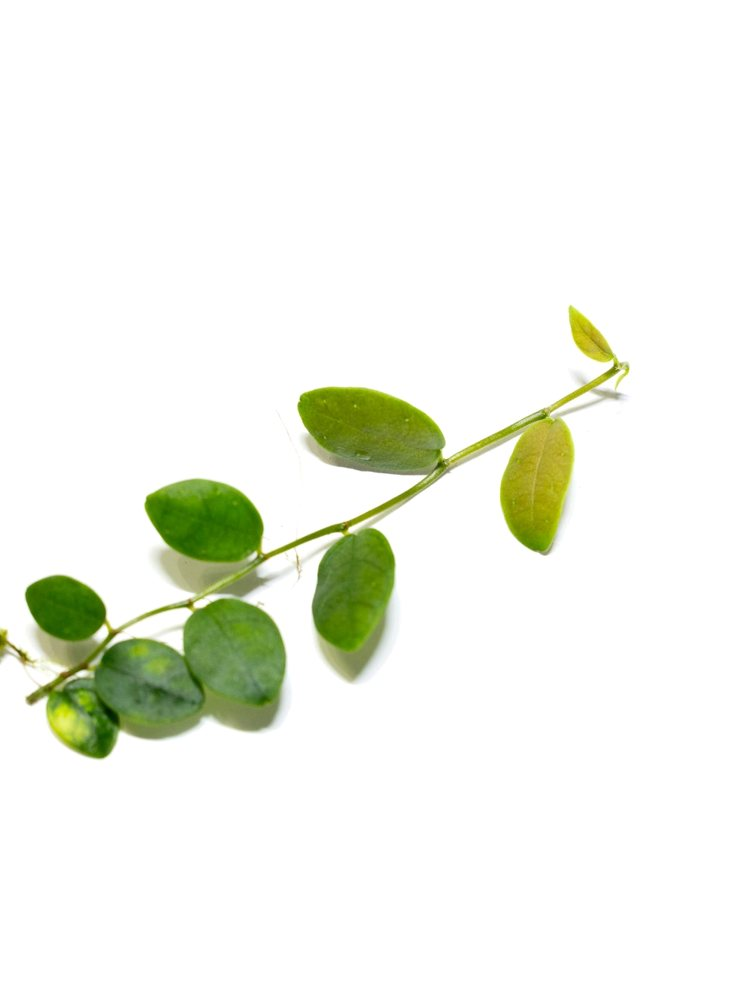
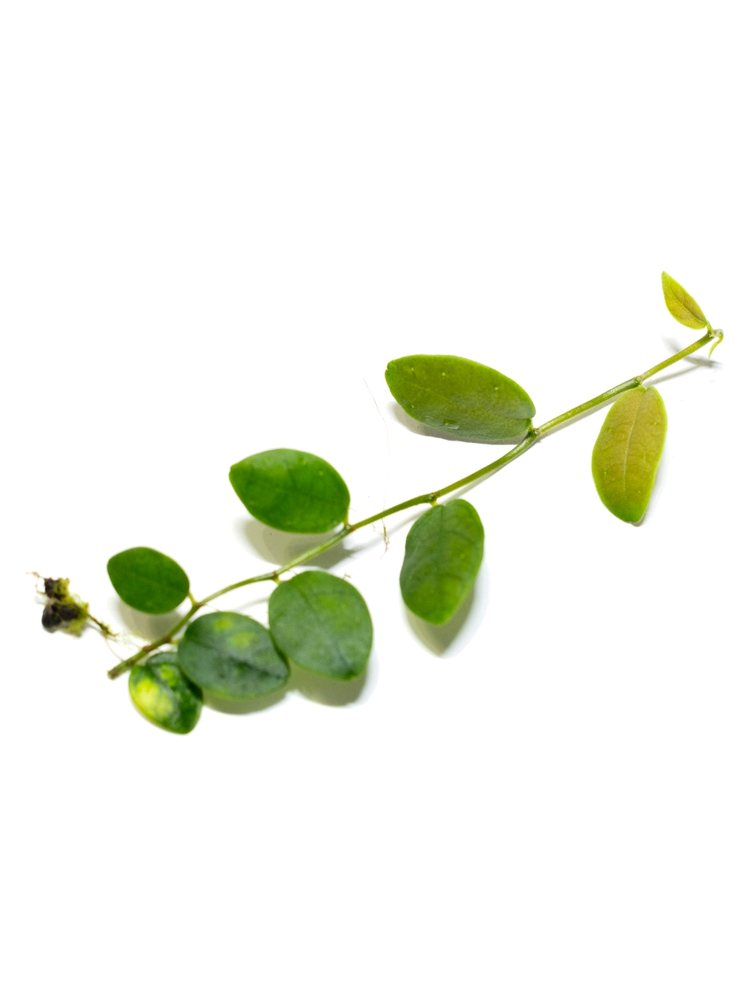
Size product photos to match Murung Raya automatically
The photo tool's default mode now scales each plant (adding or trimming
white margin) so it covers the same share of the frame as the Ficus sp.
'Murung Raya' photo (10.4%) and sits at the same spot. Ficus punctata is
re-processed this way; Murung Raya stays as the reference.

Claude-Session: https://claude.ai/code/session_01RTzuFWkWY9WEpCoxYCoC66

Changed region(s): [[0.0, 0.279, 0.9813, 0.775]]

diff --git a/plant/index.html b/plant/index.html
@@ -55,11 +55,11 @@
   <link rel="preconnect" href="https://fonts.googleapis.com">
   <link rel="preconnect" href="https://fonts.gstatic.com" crossorigin>
   <link rel="stylesheet" href="https://fonts.googleapis.com/css2?family=Figtree:ital,wght@0,300;0,700;0,800;1,300;1,700&family=Noto+Sans+KR:wght@300;700&family=Noto+Sans+JP:wght@300;700&display=swap">
-  <link rel="stylesheet" href="/assets/css/style.css?v=20261118q">
+  <link rel="stylesheet" href="/assets/css/style.css?v=20261118r">
 </head>
 <body class="page-sub">
   <!-- 상단 바 · PLANT 메뉴 (공통: assets/js/layout.js) -->
-  <script src="/assets/js/layout.js?v=20261118q"></script>
+  <script src="/assets/js/layout.js?v=20261118r"></script>
   <script>PM_LAYOUT.top()</script>
 
   <!-- ───────── PLANT 목록 ─────────
@@ -80,9 +80,9 @@
   <!-- 하단 · 검색 · 언어 창 (공통: assets/js/layout.js) -->
   <script>PM_LAYOUT.bottom()</script>
 
-  <script src="/assets/js/i18n.js?v=20261118q" defer></script>
-  <script src="/assets/js/main.js?v=20261118q" defer></script>
-  <script src="/assets/js/products.js?v=20261118q" defer></script>
-  <script src="/assets/js/plant.js?v=20261118q" defer></script>
+  <script src="/assets/js/i18n.js?v=20261118r" defer></script>
+  <script src="/assets/js/main.js?v=20261118r" defer></script>
+  <script src="/assets/js/products.js?v=20261118r" defer></script>
+  <script src="/assets/js/plant.js?v=20261118r" defer></script>
 </body>
 </html>

diff --git a/index.html b/index.html
@@ -55,11 +55,11 @@
   <link rel="preconnect" href="https://fonts.googleapis.com">
   <link rel="preconnect" href="https://fonts.gstatic.com" crossorigin>
   <link rel="stylesheet" href="https://fonts.googleapis.com/css2?family=Figtree:ital,wght@0,300;0,700;0,800;1,300;1,700&family=Noto+Sans+KR:wght@300;700&family=Noto+Sans+JP:wght@300;700&display=swap">
-  <link rel="stylesheet" href="/assets/css/style.css?v=20261118q">
+  <link rel="stylesheet" href="/assets/css/style.css?v=20261118r">
 </head>
 <body>
   <!-- 상단 바 · PLANT 메뉴 (공통: assets/js/layout.js) -->
-  <script src="/assets/js/layout.js?v=20261118q"></script>
+  <script src="/assets/js/layout.js?v=20261118r"></script>
   <script>PM_LAYOUT.top()</script>
 
   <!-- ───────── 홈 ───────── -->
@@ -101,8 +101,8 @@
   <script>PM_LAYOUT.bottom()</script>
 
 
-  <script src="/assets/js/i18n.js?v=20261118q" defer></script>
-  <script src="/assets/js/products.js?v=20261118q" defer></script>
-  <script src="/assets/js/main.js?v=20261118q" defer></script>
+  <script src="/assets/js/i18n.js?v=20261118r" defer></script>
+  <script src="/assets/js/products.js?v=20261118r" defer></script>
+  <script src="/assets/js/main.js?v=20261118r" defer></script>
 </body>
 </html>

diff --git a/assets/js/products.js b/assets/js/products.js
@@ -8,7 +8,8 @@
    price    : 원 단위 숫자 (예: 32000). 아직 정하지 않았으면 null → '가격 문의'로 표시
    status   : 'available'(판매 중) | 'soldout'(품절)
    image    : 세로 3:4 사진 — PC 저장소의 tools/prepare_product_photo.py 로 만든 파일
-              (흰 배경을 같은 순백으로 고르고 3:4로 자름. 아래쪽 그라데이션은 사이트가 똑같이 넣음)
+              (흰 배경을 같은 순백으로 고르고, 식물 크기를 '무룽 라야' 사진과 같은 비율로 맞춤.
+               아래쪽 그라데이션은 사이트가 모든 사진에 똑같이 넣음)
  */
 window.PM_PRODUCTS = [
   {
@@ -27,6 +28,6 @@ window.PM_PRODUCTS = [
     sci: ['Ficus punctata', ''],
     price: 60000,
     status: 'available',
-    image: '/assets/img/products/ficus-punctata.jpg?v=4'   /* 사진 도구: --fx 0.5 (왼쪽 뿌리 쪽은 살짝 잘리고 위·오른쪽에 여백) */
+    image: '/assets/img/products/ficus-punctata.jpg?v=5'
   }
 ];

diff --git a/tools/prepare_product_photo.py b/tools/prepare_product_photo.py
@@ -2,8 +2,8 @@
 """PLANT MATTER — 상품 사진 준비 도구
 
 사진마다 다른 흰 배경의 밝기·색감(구석 그늘, 위아래 그늘, 누런/푸른 기)을
-같은 순백(#ffffff)으로 고르게 맞춘 뒤, 식물이 가운데 오도록 세로 3:4로 잘라
-750×1000 JPG로 저장합니다. 아래쪽 그라데이션은 사이트(CSS)가 모든 사진에 똑같이 넣습니다.
+같은 순백(#ffffff)으로 고르게 맞추고, 모든 식물이 화면에서 같은 비율로 보이도록
+흰 여백을 늘리거나 줄여 세로 3:4(750×1000) JPG로 저장합니다. 아래쪽 그라데이션은 사이트(CSS)가 모든 사진에 똑같이 넣습니다.
 
 사용법:
     python3 tools/prepare_product_photo.py 원본.jpg assets/img/products/식물이름.jpg
@@ -11,7 +11,7 @@
     (선택) --zoom 1.25: 식물을 더 크게 (1보다 크면 확대, 가장자리는 잘릴 수 있음)
                       --zoom 0.7 처럼 1보다 작으면 축소하고 순백 여백을 더함
     (선택) --fy 0.52  : 확대할 때 세로 위치를 직접 지정 (0=위 … 1=아래)
-    예) 피커스 푼타타: --fx 0.5  (원본 가운데 기준 — 왼쪽 뿌리 쪽은 살짝 잘리고 위·오른쪽에 여백)
+    옵션 없이 실행하면 자동으로 크기·위치를 맞춥니다 (권장). 옵션을 주면 그 값대로 직접 자릅니다.
 
 필요한 것: Python 3, Pillow, NumPy  (pip install pillow numpy)
 """
@@ -23,6 +23,10 @@ from PIL import Image
 GRID = 32          # 배경 밝기를 재는 칸 수 (세로 기준)
 KNEE = (238, 248)  # 이 사이 밝기는 순백 쪽으로 부드럽게 올림, 248 이상은 순백 (식물 색인 238 미만은 그대로)
 OUT_W, OUT_H = 750, 1000
+# 기본 모드: 모든 식물이 '피커스 sp. 무룽 라야' 사진과 같은 비율로 보이도록 크기를 맞춤
+#   → 식물(잎·줄기)이 화면에서 차지하는 면적을 무룽 라야와 같게 하고, 같은 자리에 둠
+FIT_COVER = 0.104           # 무룽 라야: 식물이 화면의 10.4%를 차지
+FIT_CX, FIT_CY = 0.50, 0.51 # 무룽 라야: 식물 중심이 가로 50%, 세로 51% 지점
 
 
 def _fill_missing(grid):
@@ -80,6 +84,24 @@ def flatten_background(img):
     return Image.fromarray(out.astype(np.uint8))
 
 
+def fit_3x4(img):
+    """식물이 차지하는 면적을 무룽 라야와 같게 키우거나 줄이고, 남는 곳은 순백 여백으로 채움."""
+    W, H = img.size
+    a = np.asarray(img.convert('L'))
+    ys, xs = np.where(a < 200)
+    if not len(xs):
+        return crop_3x4(img)
+    x1, x2 = np.percentile(xs, [0.5, 99.5])                 # 작은 티끌은 무시
+    y1, y2 = np.percentile(ys, [0.5, 99.5])
+    fw = (0.75 * len(xs) / FIT_COVER) ** 0.5                # 식물 면적 ÷ 화면 면적 = FIT_COVER 가 되는 화면 폭
+    fh = fw / 0.75
+    x0 = int(round((x1 + x2) / 2 - fw * FIT_CX))
+    y0 = int(round((y1 + y2) / 2 - fh * FIT_CY))
+    canvas = Image.new('RGB', (int(fw), int(fh)), (255, 255, 255))
+    canvas.paste(img, (-x0, -y0))
+    return canvas.resize((OUT_W, OUT_H), Image.LANCZOS)
+
+
 def crop_3x4(img, fx=None, zoom=1.0, fy=None):
     W, H = img.size
     a = np.asarray(img.convert('L'))
@@ -133,7 +155,9 @@ def main():
     ap.add_argument('--fy', type=float, default=None)
     args = ap.parse_args()
     img = Image.open(args.src).convert('RGB')
-    out = crop_3x4(flatten_background(img), args.fx, args.zoom, args.fy)
+    flat = flatten_background(img)
+    manual = args.fx is not None or args.fy is not None or args.zoom != 1.0
+    out = crop_3x4(flat, args.fx, args.zoom, args.fy) if manual else fit_3x4(flat)
     out.save(args.dst, quality=84, optimize=True, progressive=True)
     print(f'saved {args.dst} ({out.size[0]}x{out.size[1]})')
 

diff --git a/README.md b/README.md
@@ -46,7 +46,7 @@
 
 ### 식물 등록하기
 
-1. 사진을 도구로 정리합니다 — 흰 배경의 밝기·색감을 모든 사진이 같은 순백이 되도록 맞추고, 식물이 가운데 오게 세로 3:4(750×1000)로 자릅니다.
+1. 사진을 도구로 정리합니다 — 흰 배경의 밝기·색감을 모든 사진이 같은 순백이 되도록 맞추고, **식물 크기와 위치를 '피커스 sp. 무룽 라야' 사진과 같은 비율로** 맞춰(흰 여백을 늘리거나 줄임) 세로 3:4(750×1000)로 저장합니다.
    ```bash
    python3 tools/prepare_product_photo.py 원본사진.jpg assets/img/products/new-plant.jpg
    ```
